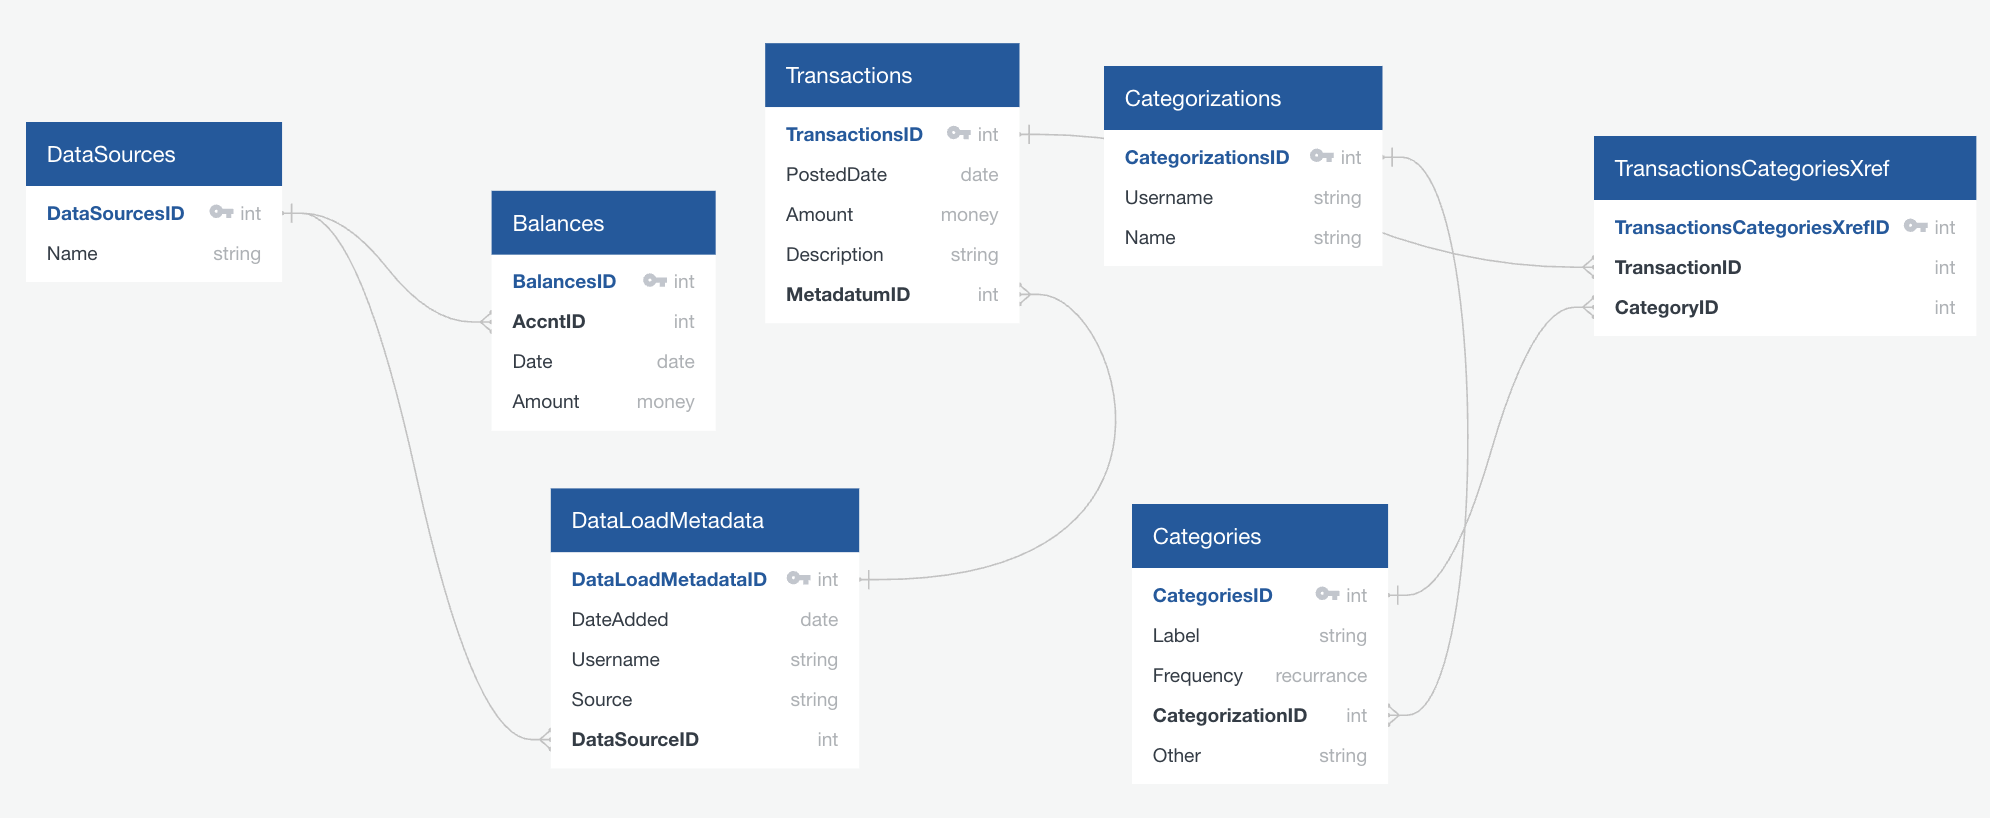
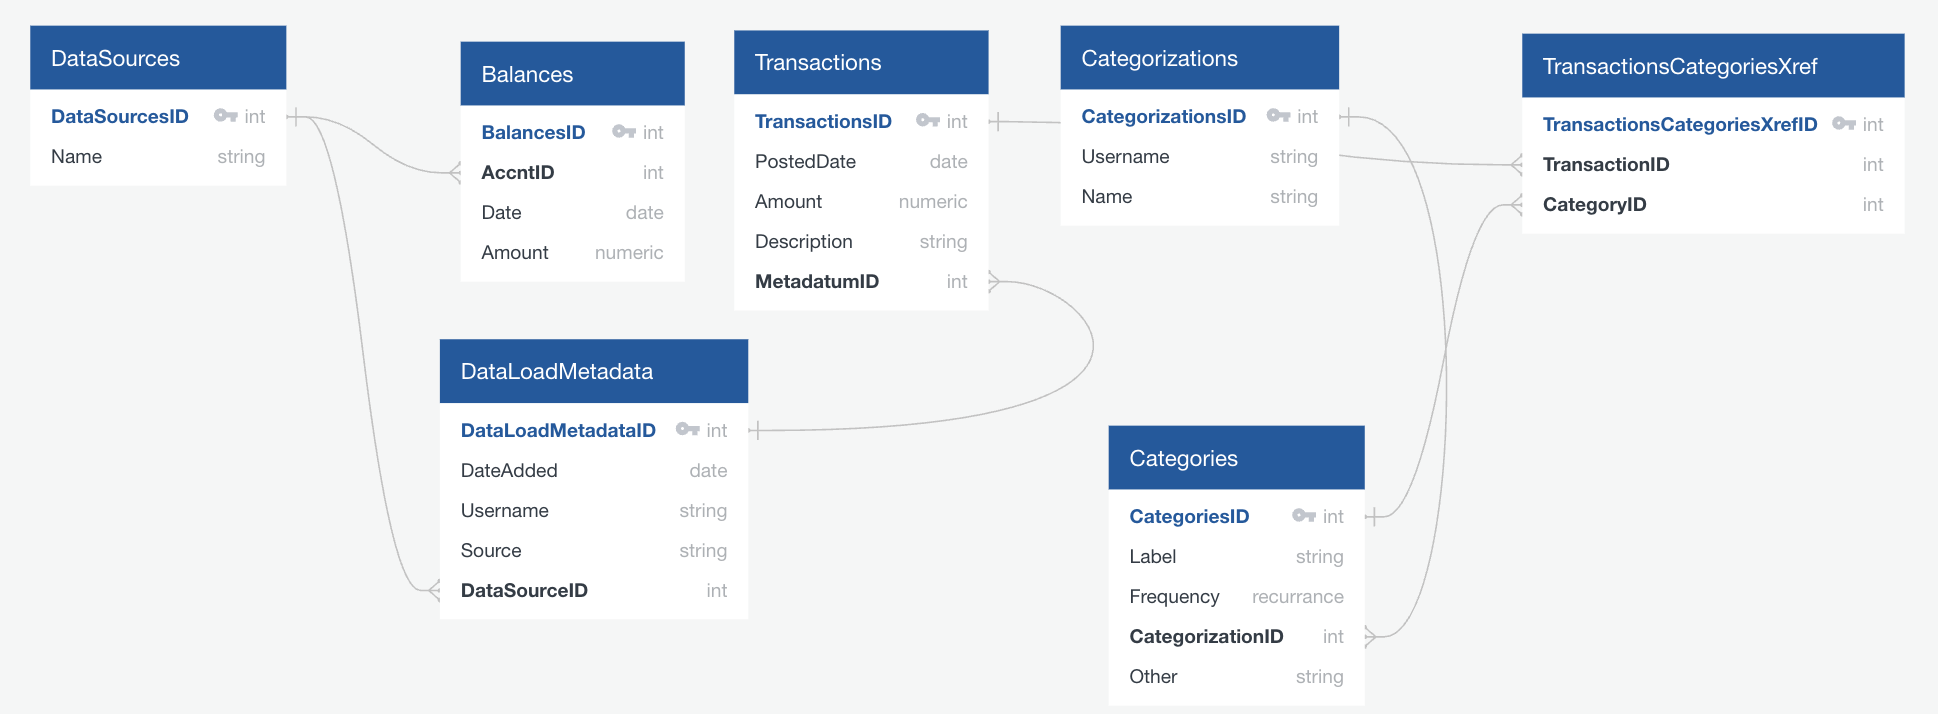
Update schema and schema diagram

diff --git a/src/fintrackr/SQL_to_EDL.py b/src/fintrackr/SQL_to_EDL.py
@@ -1,5 +1,14 @@
 """
 Copyright (c) 2026 Stephanie Johnson
+
+TODO this has a couple bugs - 
+amount numeric(12,2) NOT NULL,
+UNIQUE (accnt_id, date, amount)
+
+outputs as:
+Amount numeric(122)
+UNIQUE (accnt_id
+
 """
 
 import os, sys
